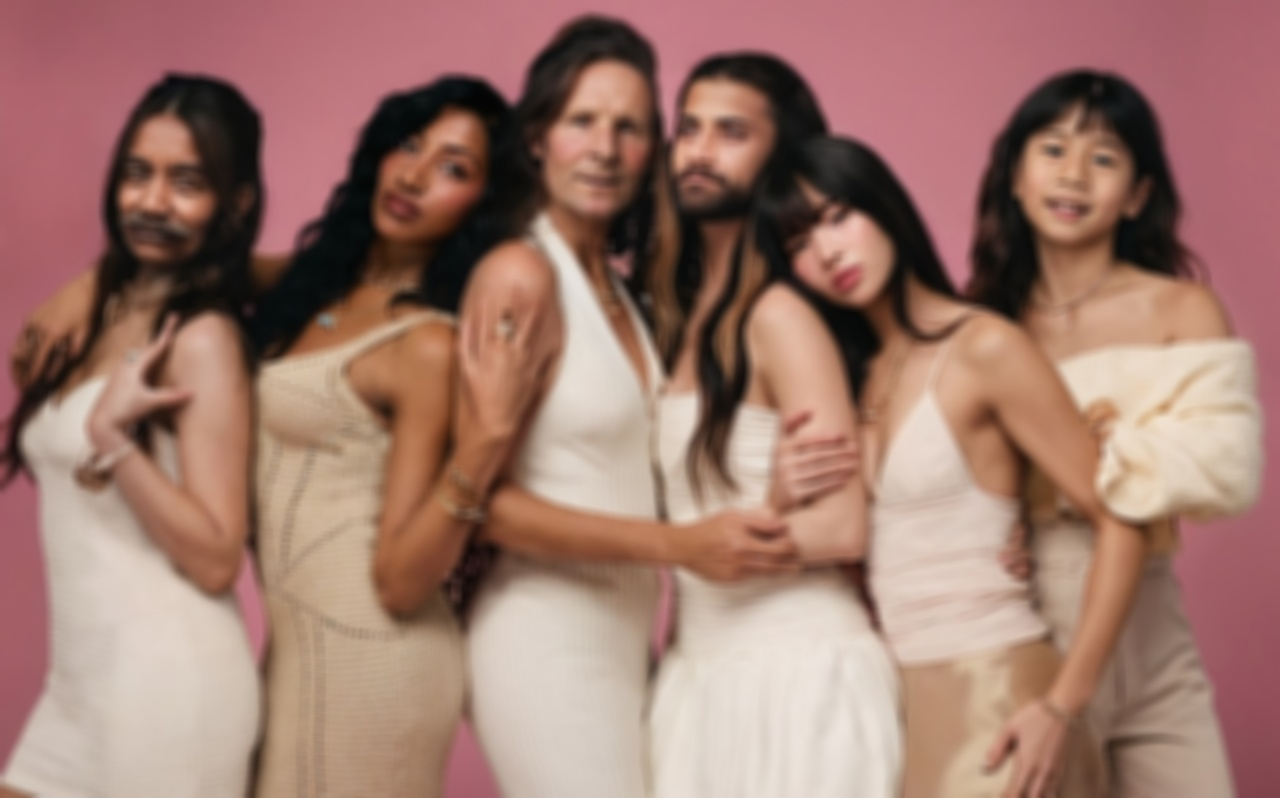
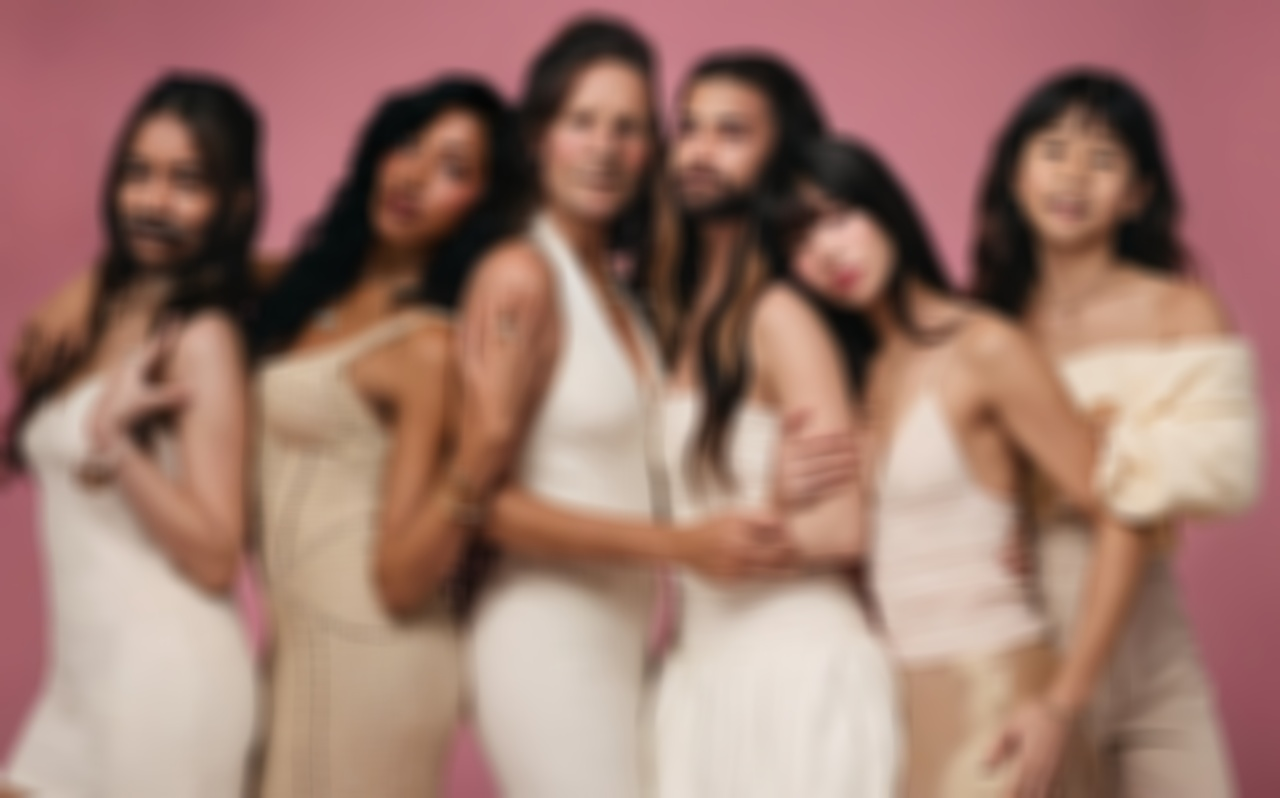
(BoxBlur) Finished the DP version

diff --git a/BoxBlurLib/BoxBlur.h b/BoxBlurLib/BoxBlur.h
@@ -1,5 +1,6 @@
 #pragma once
 #include <cstdint>
+#include <memory>
 
 namespace ImageCore {
 	enum class PixelFormat;
@@ -19,7 +20,13 @@ namespace Blur {
 		void Apply(const ImageCore::ImageBuffer& srcBuffer, ImageCore::ImageBuffer& dstBuffer, int kernelSize);
 	private:
 		PaddingMode paddingMode_;
+		void naiveApply(const ImageCore::ImageBuffer& srcBuffer, ImageCore::ImageBuffer& dstBuffer, int kernelSize);
 		void blurOnePixel(int x, int y, const ImageCore::ImageBuffer& srcBuffer, ImageCore::ImageBuffer& dstBuffer, int kernelSize);
+
+		void fastApply(const ImageCore::ImageBuffer& srcBuffer, ImageCore::ImageBuffer& dstBuffer, int kernelSize);
+		void blurSingleCol(const std::shared_ptr<float>& tmpBuffer, ImageCore::ImageBuffer& dstBuffer, int col_index, int kernelSize);
+		void blurSingleRow(const ImageCore::ImageBuffer& srcBuffer, const std::shared_ptr<float>& tmpBuffer, int row_index, int kernelSize);
+		int clampCoordinate(int coord, int maxCoord) const;
 		void samplePixelWithBoundary(int x, int y, const ImageCore::ImageBuffer& buffer, uint8_t* outPixel);
 	};
 }

diff --git a/BoxBlurLib/ImageBuffer.cpp b/BoxBlurLib/ImageBuffer.cpp
@@ -117,8 +117,7 @@ namespace ImageCore {
 			throw std::out_of_range("Pixel coordinates are out of bounds");
         }
 
-        int rowSize = num_channels * width;
-        int bufferIndex = y * rowSize + x * num_channels;
+        int bufferIndex = y * stride + x * num_channels;
         for (int c = 0; c < num_channels; c++) {
             outPixel[c] = data.get()[bufferIndex + c];
         }

diff --git a/BoxBlurUnitTest/BoxBlurUnitTest.cpp b/BoxBlurUnitTest/BoxBlurUnitTest.cpp
@@ -22,7 +22,7 @@ namespace BoxBlurUnitTest
             int width = src.cols;
             int height = src.rows;
             int numChannel = src.channels();
-            int kernelSize = 11;
+            int kernelSize = 21;
 			ImageCore::ImageBuffer srcBuffer(src);
             ImageCore::ImageBuffer dstBuffer(width, height, ImageCore::PixelFormat::BGR);
 
